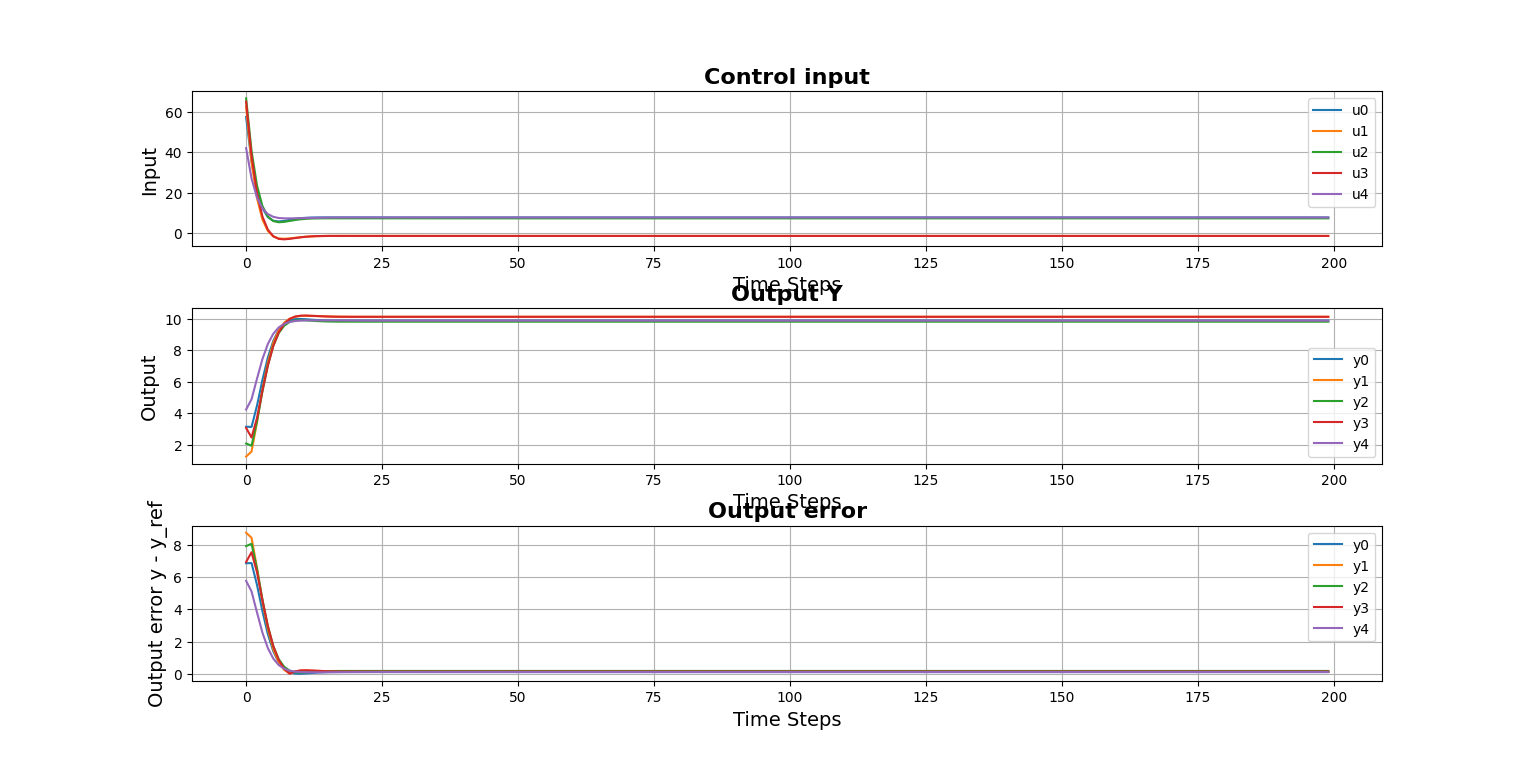
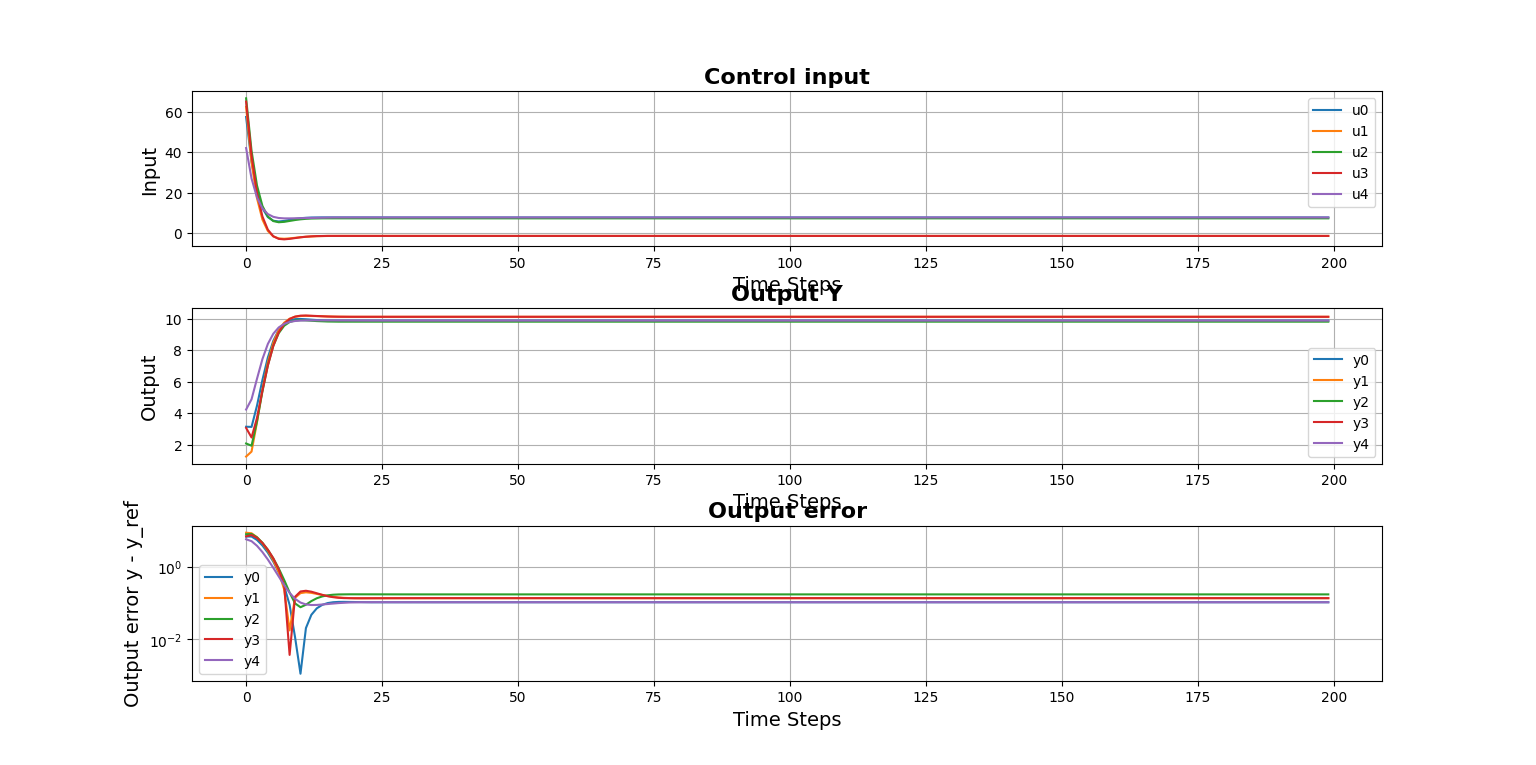
first

Changed region(s): [[0.0625, 0.6614, 0.9062, 0.902]]

diff --git a/power_unit/connectivity.py b/power_unit/connectivity.py
@@ -11,10 +11,10 @@ from functions import functions
 import networkx as nx
 if __name__ == "__main__":
     np.random.seed(123)
-    # A = np.array([[1, 0.05],
-    #                [-0.05,1]])
-    # B = np.array([[0],[0.1]])
-    # C = np.array([[0.1,0]])
+    # A = np.array([[1, 0.1],
+    #                [-0.7,0.6]])
+    # B = np.array([[0],[1]])
+    # C = np.array([[0.25,0]])
     # D = np.zeros(1)
     A = np.array([[0.5, 0.05],
                 [-0.05,0.5]])
@@ -94,6 +94,30 @@ if __name__ == "__main__":
             if not G.has_edge(u, v):  # Check if the edge does not already exist
                 G.add_edge(u, v)  # Add the new edge to the graph
                 break  # Exit the loop once a new edge is added
+
+    def add_random_edges2(G, num_edges=10):
+
+        nodes = list(G.nodes())
+        n = len(nodes)
+        max_edges = n * (n - 1) // 2  # Maximum number of edges in a complete graph
+
+        if G.number_of_edges() >= max_edges:
+            print("Already a complete graph or cannot add more edges.")
+            return
+
+        existing_edges = set(G.edges())
+        possible_edges = [(u, v) for u in nodes for v in nodes if u != v and (u, v) not in existing_edges and (v, u) not in existing_edges]
+
+        if len(possible_edges) < num_edges:
+            print("Not enough possible edges to add.")
+            return
+
+        edges_to_add = np.random.choice(len(possible_edges), num_edges, replace=False)
+        
+        for idx in edges_to_add:
+            u, v = possible_edges[idx]
+            G.add_edge(u, v)
+
     def increase_edge_connectivity(G, target_connectivity):
         """
         Increase the edge connectivity of the graph G to the target_connectivity.
@@ -151,7 +175,7 @@ if __name__ == "__main__":
 
     graph = create_connected_graph(v)   
     # Incrementally add edges until the graph becomes fully connected
-    while graph.number_of_edges() <= (v * (v - 1)) // 2:
+    while graph.number_of_edges() <= 400:
         e=2*len(graph.edges()) # directed graph  
         v_con=nx.node_connectivity(graph)
         e_con=nx.edge_connectivity(graph)
@@ -333,9 +357,10 @@ if __name__ == "__main__":
         print('Projection onto Cartisian of subspaces time: ',statistics.mean(F.time_proj2))
         if graph.number_of_edges() == v*(v-1)//2:
             break
-        increase_edge_connectivity(graph, e_con+1)
-        if nx.edge_connectivity(graph) >10:
-            break
+        add_random_edges2(graph,20)
+        # increase_edge_connectivity(graph, e_con+1)
+        # if nx.edge_connectivity(graph) >10:
+        #     break
         # add_random_edge(graph)
         assert nx.is_connected(graph), "The graph must remain connected"
         
@@ -344,7 +369,7 @@ if __name__ == "__main__":
         'average total proj':mean_total, 'mean thread':mean_thread,'average alternation proj':mean_alter, 'mean split':mean_split, 'mean split2':mean_split2, 
         'mean_inter': mean_inter, 'mean_proj2':mean_proj2,'mean_sub':mean_sub, 'var_sub':var_sub,'max_sub':max_sub}
     df = pd.DataFrame(data)
-    df.to_excel('results/connectivity-100units.xlsx', index=False)
+    df.to_excel('power_unit/results/edges-100units.xlsx', index=False)
         # start_alberto = time.time()
         # w_split = F.lqr(wini, wref, Phi, h_total)
         # end_alberto = time.time()

diff --git a/power_unit/functions.py b/power_unit/functions.py
@@ -86,8 +86,8 @@ class functions():
 
     def timed_matmul(self,x, y):
         start_time = time.process_time()
-        result = x @ y
-        # result = self.matrix_vector_multiply(x,y)
+        # result = x @ y
+        result = self.matrix_vector_multiply(x,y)
         # result = self.proj(x,y)
         end_time = time.process_time()
         elapsed_time = end_time - start_time
@@ -280,8 +280,8 @@ class functions():
             v_proj=  2*z-w-2*self.alpha*z_squared # O(n)
             # print('v_proj:',v_proj.shape)
             start=time.process_time()
-            v_plus = self.proj_h @ v_proj # O(n^2)
-            # v_plus = self.matrix_vector_multiply(self.proj_h, v_proj) # O(n^2)
+            # v_plus = self.proj_h @ v_proj # O(n^2)
+            v_plus = self.matrix_vector_multiply(self.proj_h, v_proj) # O(n^2)
             # print('v_plus',v_plus.shape)
             end=time.process_time()
             self.time_proj.append(end-start)
@@ -303,7 +303,7 @@ class functions():
 
     def distributed_lqr(self, w_ini, w_ref, Phi, h, tol=1e-6):
         # Initialize w, z, v
-        with ThreadPool(processes=16) as pool:
+        with ThreadPool(processes=8) as pool:
             # w=np.vstack((w_ini, np.zeros((self.q_dis*self.N,1)) ))
             w = 2*np.ones((self.q_dis*self.L,1))
             kron=np.diag( np.kron(np.eye(self.N),Phi) ).reshape(-1, 1)

diff --git a/power_unit/run.py b/power_unit/run.py
@@ -358,7 +358,7 @@ if __name__ == "__main__":
             
     
     Tsim=200  
-    solver='dis_lqr'
+    solver='CVXPY'
     params_D = {'H': H, # an object of Hankel
                 'H_dis':H_dis,
                 'h_dis':h,
@@ -394,7 +394,7 @@ if __name__ == "__main__":
 
     ''' Plot results '''
 
-    def plot_behavior(ax, title, xlabel, ylabel, data, label_prefix, ylim=None):
+    def plot_behavior(ax, title, xlabel, ylabel, data, label_prefix, ylim=None,log_scale=False):
         ax.set_title(title, fontsize=16, fontweight='bold')
         ax.set_xlabel(xlabel, fontsize=14)
         ax.set_ylabel(ylabel, fontsize=14)
@@ -404,6 +404,9 @@ if __name__ == "__main__":
 
         if ylim is not None:
             ax.set_ylim(ylim)
+
+        if log_scale:
+            ax.set_yscale('log')
 
         ax.legend(loc='best')
         ax.grid(True)
@@ -419,7 +422,7 @@ if __name__ == "__main__":
     error = np.abs(ysim - np.tile(wref[-p_central:], Tsim))
     print('error:\n',error[:,-1])
     # error=ysim-wref.reshape(size_w,-1,order='F')[-2:,:]
-    plot_behavior(ax[2], 'Output error', 'Time Steps', 'Output error y - y_ref', error, 'y', ylim=None)
+    plot_behavior(ax[2], 'Output error', 'Time Steps', 'Output error y - y_ref', error, 'y', ylim=None,log_scale=True)
 
     # Adjust the space between plots
     plt.subplots_adjust(hspace=0.4)
